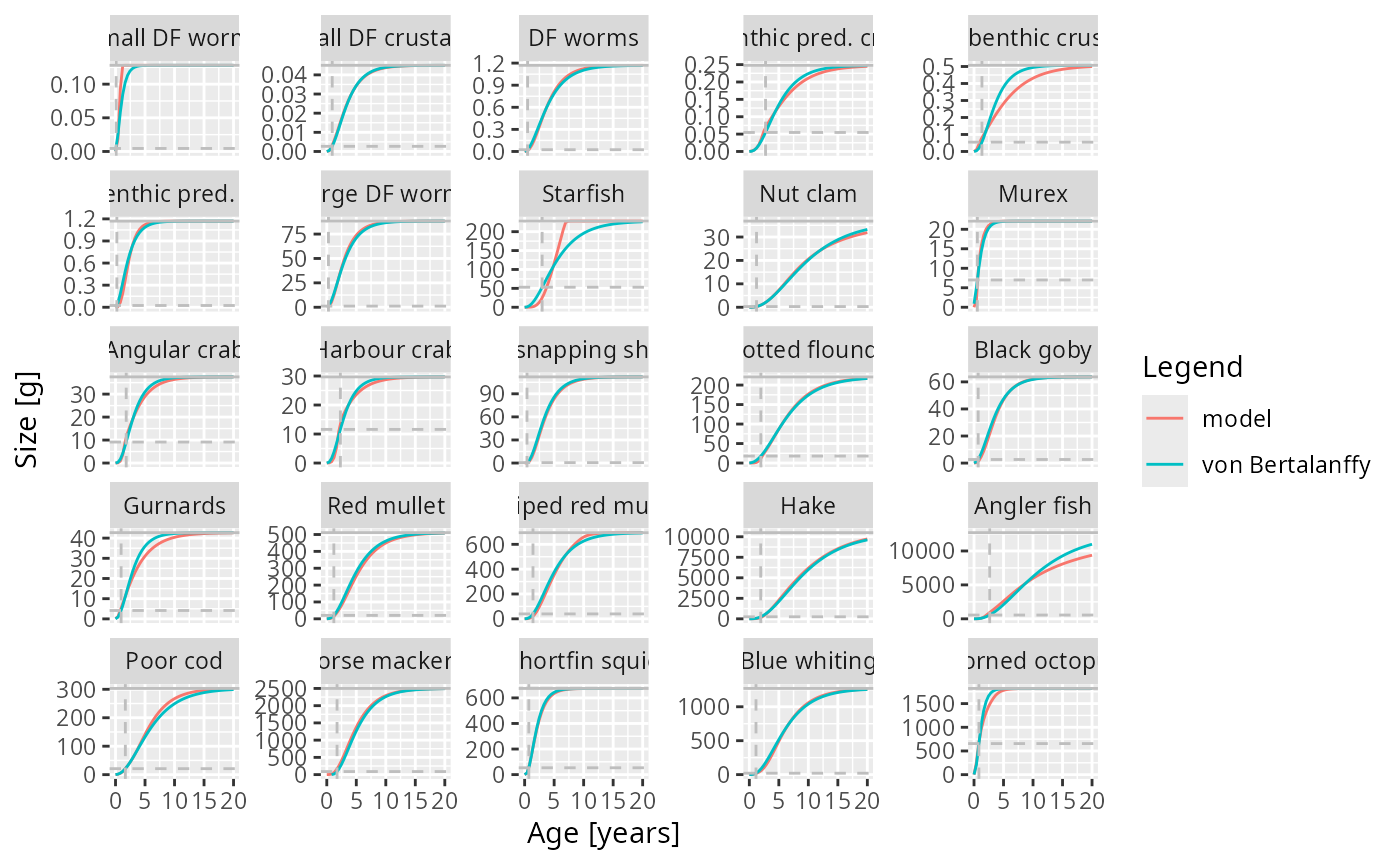
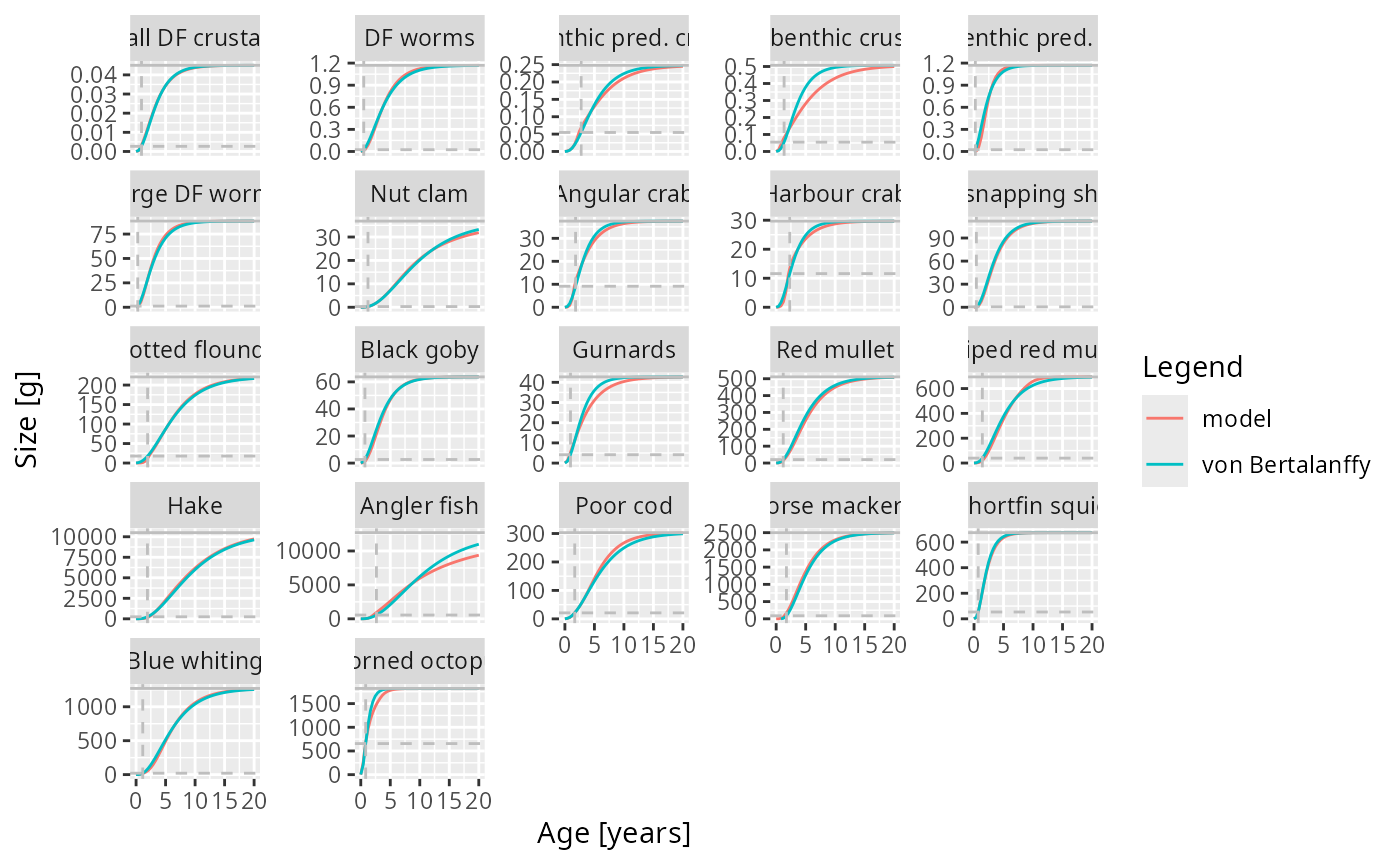
Update website

diff --git a/docs/articles/extension_mechanism.html b/docs/articles/extension_mechanism.html
@@ -20,7 +20,7 @@
 
     <a class="navbar-brand me-2" href="../index.html">mizerShelf</a>
 
-    <small class="nav-text text-muted me-auto" data-bs-toggle="tooltip" data-bs-placement="bottom" title="">1.0.1</small>
+    <small class="nav-text text-muted me-auto" data-bs-toggle="tooltip" data-bs-placement="bottom" title="">1.0.2</small>
 
 
     <button class="navbar-toggler" type="button" data-bs-toggle="collapse" data-bs-target="#navbar" aria-controls="navbar" aria-expanded="false" aria-label="Toggle navigation">
@@ -95,13 +95,13 @@ of the five extension mechanisms described in
 <tbody>
 <tr class="odd">
 <td>
-<code>.onLoad</code> + <code>registerExtension()</code>
+<code>.onLoad</code> + <code><a href="https://sizespectrum.org/mizer/reference/registerExtension.html" class="external-link">registerExtension()</a></code>
 </td>
 <td>Register the package with mizer so params objects know which
 extensions they need</td>
 </tr>
 <tr class="even">
-<td><code>setRateFunction()</code></td>
+<td><code><a href="https://sizespectrum.org/mizer/reference/setRateFunction.html" class="external-link">setRateFunction()</a></code></td>
 <td>Replace standard mortality with shelf mortality that includes excess
 gear mortality</td>
 </tr>
@@ -111,7 +111,7 @@ gear mortality</td>
 resource</td>
 </tr>
 <tr class="even">
-<td><code>setComponent()</code></td>
+<td><code><a href="https://sizespectrum.org/mizer/reference/setComponent.html" class="external-link">setComponent()</a></code></td>
 <td>Add carrion as a scalar dynamical component that contributes to the
 encounter rate</td>
 </tr>
@@ -149,13 +149,13 @@ register itself when it is loaded. This happens automatically via
 <code class="sourceCode R"><span><span class="va">.onLoad</span> <span class="op">&lt;-</span> <span class="kw">function</span><span class="op">(</span><span class="va">libname</span>, <span class="va">pkgname</span><span class="op">)</span> <span class="op">{</span></span>
 <span>    <span class="fu">mizer</span><span class="fu">::</span><span class="fu"><a href="https://sizespectrum.org/mizer/reference/registerExtension.html" class="external-link">registerExtension</a></span><span class="op">(</span><span class="va">pkgname</span>, requirement <span class="op">=</span> <span class="st">"sizespectrum/mizerShelf"</span><span class="op">)</span></span>
 <span><span class="op">}</span></span></code></pre></div>
-<p><code>registerExtension()</code> adds an entry to mizer’s internal
+<p><code><a href="https://sizespectrum.org/mizer/reference/registerExtension.html" class="external-link">registerExtension()</a></code> adds an entry to mizer’s internal
 registry of known extensions. The <code>requirement</code> argument
 records the GitHub repository (<code>"sizespectrum/mizerShelf"</code>)
 so that mizer can warn users if they load a <code>params</code> object
 that needs mizerShelf but the package is not installed.</p>
 <p>This registration is what makes the subsequent call to
-<code>getRegisteredExtensions()</code> inside
+<code><a href="https://sizespectrum.org/mizer/reference/getRegisteredExtensions.html" class="external-link">getRegisteredExtensions()</a></code> inside
 <code><a href="../reference/newDetritusCarrionParams.html">newDetritusCarrionParams()</a></code> return <code>"mizerShelf"</code>
 — it is not a scan of installed packages but a lookup of packages that
 have explicitly announced themselves to mizer.</p>
@@ -163,13 +163,13 @@ have explicitly announced themselves to mizer.</p>
 <code>params@extensions</code> and coerces the result to the
 <code>mizerShelf</code> marker class:</p>
 <div class="sourceCode" id="cb3"><pre class="downlit sourceCode r">
-<code class="sourceCode R"><span><span class="va">params</span><span class="op">@</span><span class="va">extensions</span> <span class="op">&lt;-</span> <span class="fu">getRegisteredExtensions</span><span class="op">(</span><span class="op">)</span></span>
-<span><span class="va">params</span> <span class="op">&lt;-</span> <span class="fu">coerceToExtensionClass</span><span class="op">(</span><span class="va">params</span><span class="op">)</span></span></code></pre></div>
+<code class="sourceCode R"><span><span class="va">params</span><span class="op">@</span><span class="va">extensions</span> <span class="op">&lt;-</span> <span class="fu"><a href="https://sizespectrum.org/mizer/reference/getRegisteredExtensions.html" class="external-link">getRegisteredExtensions</a></span><span class="op">(</span><span class="op">)</span></span>
+<span><span class="va">params</span> <span class="op">&lt;-</span> <span class="fu"><a href="https://sizespectrum.org/mizer/reference/coerceToExtensionClass.html" class="external-link">coerceToExtensionClass</a></span><span class="op">(</span><span class="va">params</span><span class="op">)</span></span></code></pre></div>
 <p>Recording the extension in <code>params@extensions</code> is what
 allows mizer to automatically produce a <code>mizerShelfSim</code>
-whenever <code>project()</code> is called: mizer’s own
-<code>MizerSim()</code> constructor calls
-<code>coerceToExtensionClass()</code>, which reads
+whenever <code><a href="https://sizespectrum.org/mizer/reference/project.html" class="external-link">project()</a></code> is called: mizer’s own
+<code><a href="https://sizespectrum.org/mizer/reference/MizerSim.html" class="external-link">MizerSim()</a></code> constructor calls
+<code><a href="https://sizespectrum.org/mizer/reference/coerceToExtensionClass.html" class="external-link">coerceToExtensionClass()</a></code>, which reads
 <code>params@extensions</code>, sees <code>mizerShelf</code>, and
 coerces the new sim object to <code>mizerShelfSim</code>.</p>
 </div>
@@ -238,7 +238,7 @@ biomasses:</p>
 <span>    <span class="kw">if</span> <span class="op">(</span><span class="fu"><a href="https://rdrr.io/r/base/length.html" class="external-link">length</a></span><span class="op">(</span><span class="va">scalar_other</span><span class="op">)</span> <span class="op">&gt;</span> <span class="fl">0</span><span class="op">)</span> <span class="va">b</span> <span class="op">&lt;-</span> <span class="fu"><a href="https://rdrr.io/r/base/c.html" class="external-link">c</a></span><span class="op">(</span><span class="va">b</span>, <span class="fu"><a href="https://rdrr.io/r/base/unlist.html" class="external-link">unlist</a></span><span class="op">(</span><span class="va">scalar_other</span><span class="op">)</span><span class="op">)</span></span>
 <span>    <span class="va">b</span></span>
 <span><span class="op">}</span></span></code></pre></div>
-<p>Because <code>plotBiomass()</code> calls <code><a href="../reference/getBiomass.html">getBiomass()</a></code>
+<p>Because <code><a href="https://sizespectrum.org/mizer/reference/plotBiomass.html" class="external-link">plotBiomass()</a></code> calls <code><a href="../reference/getBiomass.html">getBiomass()</a></code>
 internally, this single override makes biomass plots show detritus and
 carrion alongside fish species without any further changes.</p>
 <div class="sourceCode" id="cb5"><pre class="downlit sourceCode r">
@@ -246,8 +246,8 @@ carrion alongside fish species without any further changes.</p>
 <span><span class="co">#&gt;     Small DF worms Small DF crustacea           DF worms </span></span>
 <span><span class="co">#&gt;          0.6514945          0.1603410          0.7829609</span></span></code></pre></div>
 <div class="sourceCode" id="cb6"><pre class="downlit sourceCode r">
-<code class="sourceCode R"><span><span class="va">sim</span> <span class="op">&lt;-</span> <span class="fu">project</span><span class="op">(</span><span class="va">NWMed_params</span>, t_max <span class="op">=</span> <span class="fl">3</span>, t_save <span class="op">=</span> <span class="fl">0.5</span>, progress_bar <span class="op">=</span> <span class="cn">FALSE</span><span class="op">)</span></span>
-<span><span class="fu">plotBiomass</span><span class="op">(</span><span class="va">sim</span>, species <span class="op">=</span> <span class="fu"><a href="https://rdrr.io/r/base/c.html" class="external-link">c</a></span><span class="op">(</span><span class="st">"Nut clam"</span>, <span class="st">"Detritus"</span><span class="op">)</span><span class="op">)</span></span>
+<code class="sourceCode R"><span><span class="va">sim</span> <span class="op">&lt;-</span> <span class="fu"><a href="https://sizespectrum.org/mizer/reference/project.html" class="external-link">project</a></span><span class="op">(</span><span class="va">NWMed_params</span>, t_max <span class="op">=</span> <span class="fl">3</span>, t_save <span class="op">=</span> <span class="fl">0.5</span>, progress_bar <span class="op">=</span> <span class="cn">FALSE</span><span class="op">)</span></span>
+<span><span class="fu"><a href="https://sizespectrum.org/mizer/reference/plotBiomass.html" class="external-link">plotBiomass</a></span><span class="op">(</span><span class="va">sim</span>, species <span class="op">=</span> <span class="fu"><a href="https://rdrr.io/r/base/c.html" class="external-link">c</a></span><span class="op">(</span><span class="st">"Nut clam"</span>, <span class="st">"Detritus"</span><span class="op">)</span><span class="op">)</span></span>
 <span><span class="co">#&gt; Warning: Removed 7 rows containing missing values or values outside the scale range</span></span>
 <span><span class="co">#&gt; (`geom_line()`).</span></span></code></pre></div>
 <p><img src="extension_mechanism_files/figure-html/plotBiomass-example-1.png" class="r-plt" alt="" width="672"></p>
@@ -261,9 +261,9 @@ carrion alongside fish species without any further changes.</p>
 carrying capacity. mizerShelf replaces this with
 <code><a href="../reference/detritus_dynamics.html">detritus_dynamics()</a></code>, which is registered via the
 <code>resource_dynamics</code> argument to
-<code>newMultispeciesParams()</code>:</p>
+<code><a href="https://sizespectrum.org/mizer/reference/newMultispeciesParams.html" class="external-link">newMultispeciesParams()</a></code>:</p>
 <div class="sourceCode" id="cb7"><pre class="downlit sourceCode r">
-<code class="sourceCode R"><span><span class="va">params</span> <span class="op">&lt;-</span> <span class="fu">newMultispeciesParams</span><span class="op">(</span></span>
+<code class="sourceCode R"><span><span class="va">params</span> <span class="op">&lt;-</span> <span class="fu"><a href="https://sizespectrum.org/mizer/reference/newMultispeciesParams.html" class="external-link">newMultispeciesParams</a></span><span class="op">(</span></span>
 <span>    species_params <span class="op">=</span> <span class="va">species_params</span>,</span>
 <span>    resource_dynamics <span class="op">=</span> <span class="st">"detritus_dynamics"</span>,</span>
 <span>    <span class="va">...</span></span>
@@ -298,7 +298,7 @@ sedimentation from pelagic waters, stored in
 </ul>
 <p><code><a href="../reference/detritus_dynamics.html">detritus_dynamics()</a></code> solves this ODE analytically within
 each time step to avoid the instabilities of a simple Euler step:</p>
-<p><math display="block" xmlns="http://www.w3.org/1998/Math/MathML"><semantics><mrow><mi>B</mi><mrow><mo stretchy="true" form="prefix">(</mo><mi>t</mi><mo>+</mo><mi>Δ</mi><mi>t</mi><mo stretchy="true" form="postfix">)</mo></mrow><mo>=</mo><mi>B</mi><mrow><mo stretchy="true" form="prefix">(</mo><mi>t</mi><mo stretchy="true" form="postfix">)</mo></mrow><mspace width="0.167em"></mspace><msup><mi>e</mi><mrow><mi>−</mi><mi>c</mi><mspace width="0.167em"></mspace><mi>Δ</mi><mi>t</mi></mrow></msup><mo>+</mo><mfrac><mi>p</mi><mi>c</mi></mfrac><mrow><mo stretchy="true" form="prefix">(</mo><mn>1</mn><mo>−</mo><msup><mi>e</mi><mrow><mi>−</mi><mi>c</mi><mspace width="0.167em"></mspace><mi>Δ</mi><mi>t</mi></mrow></msup><mo stretchy="true" form="postfix">)</mo></mrow></mrow><annotation encoding="application/x-tex">B(t + \Delta t) = B(t)\,e^{-c\,\Delta t} + \frac{p}{c}\left(1 - e^{-c\,\Delta t}\right)</annotation></semantics></math></p>
+<p><math display="block" xmlns="http://www.w3.org/1998/Math/MathML"><semantics><mrow><mi>B</mi><mo stretchy="false" form="prefix">(</mo><mi>t</mi><mo>+</mo><mi mathvariant="normal">Δ</mi><mi>t</mi><mo stretchy="false" form="postfix">)</mo><mo>=</mo><mi>B</mi><mo stretchy="false" form="prefix">(</mo><mi>t</mi><mo stretchy="false" form="postfix">)</mo><mspace width="0.167em"></mspace><msup><mi>e</mi><mrow><mi>−</mi><mi>c</mi><mspace width="0.167em"></mspace><mi mathvariant="normal">Δ</mi><mi>t</mi></mrow></msup><mo>+</mo><mfrac><mi>p</mi><mi>c</mi></mfrac><mrow><mo stretchy="true" form="prefix">(</mo><mn>1</mn><mo>−</mo><msup><mi>e</mi><mrow><mi>−</mi><mi>c</mi><mspace width="0.167em"></mspace><mi mathvariant="normal">Δ</mi><mi>t</mi></mrow></msup><mo stretchy="true" form="postfix">)</mo></mrow></mrow><annotation encoding="application/x-tex">B(t + \Delta t) = B(t)\,e^{-c\,\Delta t} + \frac{p}{c}\left(1 - e^{-c\,\Delta t}\right)</annotation></semantics></math></p>
 <p>where
 <math display="inline" xmlns="http://www.w3.org/1998/Math/MathML"><semantics><mi>c</mi><annotation encoding="application/x-tex">c</annotation></semantics></math>
 is the mass-specific consumption rate and
@@ -345,7 +345,7 @@ grams.</li>
 <li>
 <code>detritus_lifetime(params)</code> — the expected time a unit of
 detritus survives before being consumed, equal to
-<math display="inline" xmlns="http://www.w3.org/1998/Math/MathML"><semantics><mrow><mi>B</mi><mi>/</mi><mrow><mo stretchy="true" form="prefix">(</mo><mtext mathvariant="normal">consumption rate</mtext><mo stretchy="true" form="postfix">)</mo></mrow></mrow><annotation encoding="application/x-tex">B / (\text{consumption rate})</annotation></semantics></math>.</li>
+<math display="inline" xmlns="http://www.w3.org/1998/Math/MathML"><semantics><mrow><mi>B</mi><mi>/</mi><mo stretchy="false" form="prefix">(</mo><mtext mathvariant="normal">consumption rate</mtext><mo stretchy="false" form="postfix">)</mo></mrow><annotation encoding="application/x-tex">B / (\text{consumption rate})</annotation></semantics></math>.</li>
 <li>
 <code>detritus_lifetime(params) &lt;- value</code> — rescales
 detritus abundance while keeping total consumption unchanged (by
@@ -363,9 +363,9 @@ adjusting <code>interaction_resource</code>).</li>
 it is a scalar total biomass (not size-structured), produced by
 mortality and consumed by scavengers with a species- and size-dependent
 encounter rate. It is registered as an <em>other</em> component via
-<code>setComponent()</code>:</p>
+<code><a href="https://sizespectrum.org/mizer/reference/setComponent.html" class="external-link">setComponent()</a></code>:</p>
 <div class="sourceCode" id="cb11"><pre class="downlit sourceCode r">
-<code class="sourceCode R"><span><span class="va">params</span> <span class="op">&lt;-</span> <span class="fu">setComponent</span><span class="op">(</span></span>
+<code class="sourceCode R"><span><span class="va">params</span> <span class="op">&lt;-</span> <span class="fu"><a href="https://sizespectrum.org/mizer/reference/setComponent.html" class="external-link">setComponent</a></span><span class="op">(</span></span>
 <span>    <span class="va">params</span>, <span class="st">"carrion"</span>,</span>
 <span>    initial_value  <span class="op">=</span> <span class="fl">1</span>,</span>
 <span>    dynamics_fun   <span class="op">=</span> <span class="st">"carrion_dynamics"</span>,</span>
@@ -393,9 +393,9 @@ carrion’s contribution to each species’ encounter rate.</li>
 at body size
 <math display="inline" xmlns="http://www.w3.org/1998/Math/MathML"><semantics><mi>w</mi><annotation encoding="application/x-tex">w</annotation></semantics></math>
 is</p>
-<p><math display="block" xmlns="http://www.w3.org/1998/Math/MathML"><semantics><mrow><msubsup><mi>E</mi><mi>i</mi><mtext mathvariant="normal">carrion</mtext></msubsup><mrow><mo stretchy="true" form="prefix">(</mo><mi>w</mi><mo stretchy="true" form="postfix">)</mo></mrow><mo>=</mo><msub><mi>ρ</mi><mi>i</mi></msub><mrow><mo stretchy="true" form="prefix">(</mo><mi>w</mi><mo stretchy="true" form="postfix">)</mo></mrow><mspace width="0.167em"></mspace><msub><mi>B</mi><mtext mathvariant="normal">carrion</mtext></msub></mrow><annotation encoding="application/x-tex">E_i^{\text{carrion}}(w) = \rho_i(w)\,B_{\text{carrion}}</annotation></semantics></math></p>
+<p><math display="block" xmlns="http://www.w3.org/1998/Math/MathML"><semantics><mrow><msubsup><mi>E</mi><mi>i</mi><mtext mathvariant="normal">carrion</mtext></msubsup><mo stretchy="false" form="prefix">(</mo><mi>w</mi><mo stretchy="false" form="postfix">)</mo><mo>=</mo><msub><mi>ρ</mi><mi>i</mi></msub><mo stretchy="false" form="prefix">(</mo><mi>w</mi><mo stretchy="false" form="postfix">)</mo><mspace width="0.167em"></mspace><msub><mi>B</mi><mtext mathvariant="normal">carrion</mtext></msub></mrow><annotation encoding="application/x-tex">E_i^{\text{carrion}}(w) = \rho_i(w)\,B_{\text{carrion}}</annotation></semantics></math></p>
 <p>where
-<math display="inline" xmlns="http://www.w3.org/1998/Math/MathML"><semantics><mrow><msub><mi>ρ</mi><mi>i</mi></msub><mrow><mo stretchy="true" form="prefix">(</mo><mi>w</mi><mo stretchy="true" form="postfix">)</mo></mrow></mrow><annotation encoding="application/x-tex">\rho_i(w)</annotation></semantics></math>
+<math display="inline" xmlns="http://www.w3.org/1998/Math/MathML"><semantics><mrow><msub><mi>ρ</mi><mi>i</mi></msub><mo stretchy="false" form="prefix">(</mo><mi>w</mi><mo stretchy="false" form="postfix">)</mo></mrow><annotation encoding="application/x-tex">\rho_i(w)</annotation></semantics></math>
 is a species- and size-dependent encounter rate coefficient stored in
 the component parameters. The function
 <code><a href="../reference/encounter_contribution.html">encounter_contribution()</a></code> is a generic helper that works for
@@ -491,14 +491,14 @@ carrion) to hit the target.</li>
 extracted from the water. Continental shelf fisheries also kill animals
 that remain on the seabed after contact with bottom-trawl gear.
 mizerShelf captures this distinction with a custom mortality function
-registered via <code>setRateFunction()</code>:</p>
+registered via <code><a href="https://sizespectrum.org/mizer/reference/setRateFunction.html" class="external-link">setRateFunction()</a></code>:</p>
 <div class="sourceCode" id="cb17"><pre class="downlit sourceCode r">
-<code class="sourceCode R"><span><span class="va">params</span> <span class="op">&lt;-</span> <span class="fu">setRateFunction</span><span class="op">(</span><span class="va">params</span>, <span class="st">"Mort"</span>, <span class="st">"seMort"</span><span class="op">)</span></span></code></pre></div>
-<p><code><a href="../reference/seMort.html">seMort()</a></code> calls the standard <code>mizerMort()</code> and
+<code class="sourceCode R"><span><span class="va">params</span> <span class="op">&lt;-</span> <span class="fu"><a href="https://sizespectrum.org/mizer/reference/setRateFunction.html" class="external-link">setRateFunction</a></span><span class="op">(</span><span class="va">params</span>, <span class="st">"Mort"</span>, <span class="st">"seMort"</span><span class="op">)</span></span></code></pre></div>
+<p><code><a href="../reference/seMort.html">seMort()</a></code> calls the standard <code><a href="https://sizespectrum.org/mizer/reference/mizerMort.html" class="external-link">mizerMort()</a></code> and
 adds the excess gear mortality on top:</p>
 <div class="sourceCode" id="cb18"><pre class="downlit sourceCode r">
 <code class="sourceCode R"><span><span class="va">seMort</span> <span class="op">&lt;-</span> <span class="kw">function</span><span class="op">(</span><span class="va">params</span>, <span class="va">n</span>, <span class="va">n_pp</span>, <span class="va">n_other</span>, <span class="va">t</span>, <span class="va">f_mort</span>, <span class="va">pred_mort</span>, <span class="va">...</span><span class="op">)</span> <span class="op">{</span></span>
-<span>    <span class="fu">mizerMort</span><span class="op">(</span><span class="va">params</span>, <span class="va">n</span>, <span class="va">n_pp</span>, <span class="va">n_other</span>, <span class="va">t</span>, <span class="va">f_mort</span>, <span class="va">pred_mort</span>, <span class="va">...</span><span class="op">)</span> <span class="op">+</span></span>
+<span>    <span class="fu"><a href="https://sizespectrum.org/mizer/reference/mizerMort.html" class="external-link">mizerMort</a></span><span class="op">(</span><span class="va">params</span>, <span class="va">n</span>, <span class="va">n_pp</span>, <span class="va">n_other</span>, <span class="va">t</span>, <span class="va">f_mort</span>, <span class="va">pred_mort</span>, <span class="va">...</span><span class="op">)</span> <span class="op">+</span></span>
 <span>        <span class="fu"><a href="../reference/gearMort.html">gearMort</a></span><span class="op">(</span><span class="va">params</span>, f_mort <span class="op">=</span> <span class="va">f_mort</span><span class="op">)</span></span>
 <span><span class="op">}</span></span></code></pre></div>
 <p><code><a href="../reference/gearMort.html">gearMort()</a></code> returns
@@ -509,7 +509,7 @@ enters total mortality and also enters the carrion production (via
 <code><a href="../reference/getCarrionProduction.html">getCarrionProduction()</a></code>). When fishing mortality exceeds
 <code>gear_mort</code>, excess gear mortality is zero.</p>
 <p>The custom rate function receives and returns exactly the same array
-shape as <code>mizerMort()</code> (species × size), so it is a drop-in
+shape as <code><a href="https://sizespectrum.org/mizer/reference/mizerMort.html" class="external-link">mizerMort()</a></code> (species × size), so it is a drop-in
 replacement that adds one ecological process without changing anything
 else.</p>
 </div>
@@ -525,7 +525,7 @@ constructor:</p>
 <span>                                     <span class="va">w_max_detritus</span> <span class="op">=</span> <span class="fl">1</span>,</span>
 <span>                                     <span class="va">n</span> <span class="op">=</span> <span class="fl">0.7</span>, <span class="va">...</span><span class="op">)</span> <span class="op">{</span></span>
 <span>    <span class="co"># 1. Detritus: override resource dynamics</span></span>
-<span>    <span class="va">params</span> <span class="op">&lt;-</span> <span class="fu">newMultispeciesParams</span><span class="op">(</span></span>
+<span>    <span class="va">params</span> <span class="op">&lt;-</span> <span class="fu"><a href="https://sizespectrum.org/mizer/reference/newMultispeciesParams.html" class="external-link">newMultispeciesParams</a></span><span class="op">(</span></span>
 <span>        species_params   <span class="op">=</span> <span class="va">species_params</span>,</span>
 <span>        min_w_pp         <span class="op">=</span> <span class="va">w_min_detritus</span>,</span>
 <span>        w_pp_cutoff      <span class="op">=</span> <span class="va">w_max_detritus</span>,</span>
@@ -534,34 +534,34 @@ constructor:</p>
 <span>        <span class="va">...</span><span class="op">)</span></span>
 <span></span>
 <span>    <span class="co"># Initialise rho so each species can reach feeding level f0 at max size</span></span>
-<span>    <span class="va">f0</span>  <span class="op">&lt;-</span> <span class="fu">set_species_param_default</span><span class="op">(</span><span class="va">params</span><span class="op">@</span><span class="va">species_params</span>, <span class="st">"f0"</span>, <span class="fl">0.6</span><span class="op">)</span><span class="op">$</span><span class="va">f0</span></span>
-<span>    <span class="va">ic</span>  <span class="op">&lt;-</span> <span class="fu">set_species_param_default</span><span class="op">(</span></span>
+<span>    <span class="va">f0</span>  <span class="op">&lt;-</span> <span class="fu"><a href="https://sizespectrum.org/mizer/reference/set_species_param_default.html" class="external-link">set_species_param_default</a></span><span class="op">(</span><span class="va">params</span><span class="op">@</span><span class="va">species_params</span>, <span class="st">"f0"</span>, <span class="fl">0.6</span><span class="op">)</span><span class="op">$</span><span class="va">f0</span></span>
+<span>    <span class="va">ic</span>  <span class="op">&lt;-</span> <span class="fu"><a href="https://sizespectrum.org/mizer/reference/set_species_param_default.html" class="external-link">set_species_param_default</a></span><span class="op">(</span></span>
 <span>               <span class="va">params</span><span class="op">@</span><span class="va">species_params</span>, <span class="st">"interaction_carrion"</span>, <span class="fl">1</span><span class="op">)</span><span class="op">$</span><span class="va">interaction_carrion</span></span>
-<span>    <span class="va">E</span>   <span class="op">&lt;-</span> <span class="fu">getEncounter</span><span class="op">(</span><span class="va">params</span><span class="op">)</span><span class="op">[</span>, <span class="fu"><a href="https://rdrr.io/r/base/length.html" class="external-link">length</a></span><span class="op">(</span><span class="va">params</span><span class="op">@</span><span class="va">w</span><span class="op">)</span><span class="op">]</span> <span class="op">/</span></span>
+<span>    <span class="va">E</span>   <span class="op">&lt;-</span> <span class="fu"><a href="https://sizespectrum.org/mizer/reference/getEncounter.html" class="external-link">getEncounter</a></span><span class="op">(</span><span class="va">params</span><span class="op">)</span><span class="op">[</span>, <span class="fu"><a href="https://rdrr.io/r/base/length.html" class="external-link">length</a></span><span class="op">(</span><span class="va">params</span><span class="op">@</span><span class="va">w</span><span class="op">)</span><span class="op">]</span> <span class="op">/</span></span>
 <span>               <span class="op">(</span><span class="va">params</span><span class="op">@</span><span class="va">w</span><span class="op">[</span><span class="fu"><a href="https://rdrr.io/r/base/length.html" class="external-link">length</a></span><span class="op">(</span><span class="va">params</span><span class="op">@</span><span class="va">w</span><span class="op">)</span><span class="op">]</span> <span class="op">^</span> <span class="va">n</span><span class="op">)</span></span>
 <span>    <span class="va">rho</span> <span class="op">&lt;-</span> <span class="fu"><a href="https://rdrr.io/r/base/Extremes.html" class="external-link">pmax</a></span><span class="op">(</span><span class="fl">0</span>, <span class="va">f0</span> <span class="op">*</span> <span class="va">params</span><span class="op">@</span><span class="va">species_params</span><span class="op">$</span><span class="va">h</span> <span class="op">/</span> <span class="op">(</span><span class="fl">1</span> <span class="op">-</span> <span class="va">f0</span><span class="op">)</span> <span class="op">-</span> <span class="va">E</span><span class="op">)</span> <span class="op">*</span> <span class="va">ic</span></span>
 <span>    <span class="va">params</span><span class="op">@</span><span class="va">species_params</span><span class="op">$</span><span class="va">rho_carrion</span> <span class="op">&lt;-</span> <span class="va">rho</span></span>
 <span>    <span class="va">rho</span> <span class="op">&lt;-</span> <span class="fu"><a href="https://rdrr.io/r/base/outer.html" class="external-link">outer</a></span><span class="op">(</span><span class="va">params</span><span class="op">@</span><span class="va">species_params</span><span class="op">$</span><span class="va">rho_carrion</span>, <span class="va">params</span><span class="op">@</span><span class="va">w</span> <span class="op">^</span> <span class="va">n</span><span class="op">)</span></span>
 <span></span>
 <span>    <span class="co"># 2. Mortality: custom rate function adds excess gear mortality</span></span>
-<span>    <span class="va">params</span> <span class="op">&lt;-</span> <span class="fu">setRateFunction</span><span class="op">(</span><span class="va">params</span>, <span class="st">"Mort"</span>, <span class="st">"seMort"</span><span class="op">)</span></span>
+<span>    <span class="va">params</span> <span class="op">&lt;-</span> <span class="fu"><a href="https://sizespectrum.org/mizer/reference/setRateFunction.html" class="external-link">setRateFunction</a></span><span class="op">(</span><span class="va">params</span>, <span class="st">"Mort"</span>, <span class="st">"seMort"</span><span class="op">)</span></span>
 <span></span>
 <span>    <span class="co"># 3. Carrion: scalar dynamical component</span></span>
-<span>    <span class="va">params</span> <span class="op">&lt;-</span> <span class="fu">setComponent</span><span class="op">(</span></span>
+<span>    <span class="va">params</span> <span class="op">&lt;-</span> <span class="fu"><a href="https://sizespectrum.org/mizer/reference/setComponent.html" class="external-link">setComponent</a></span><span class="op">(</span></span>
 <span>        <span class="va">params</span>, <span class="st">"carrion"</span>, initial_value <span class="op">=</span> <span class="fl">1</span>,</span>
 <span>        dynamics_fun     <span class="op">=</span> <span class="st">"carrion_dynamics"</span>,</span>
 <span>        encounter_fun    <span class="op">=</span> <span class="st">"encounter_contribution"</span>,</span>
 <span>        component_params <span class="op">=</span> <span class="fu"><a href="https://rdrr.io/r/base/list.html" class="external-link">list</a></span><span class="op">(</span>rho <span class="op">=</span> <span class="va">rho</span><span class="op">)</span><span class="op">)</span></span>
 <span></span>
 <span>    <span class="co"># 4. Marker class: enables S3 dispatch for shelf-specific methods</span></span>
-<span>    <span class="va">params</span> <span class="op">&lt;-</span> <span class="fu">setColours</span><span class="op">(</span><span class="va">params</span>,</span>
+<span>    <span class="va">params</span> <span class="op">&lt;-</span> <span class="fu"><a href="https://sizespectrum.org/mizer/reference/setColours.html" class="external-link">setColours</a></span><span class="op">(</span><span class="va">params</span>,</span>
 <span>                         <span class="fu"><a href="https://rdrr.io/r/base/c.html" class="external-link">c</a></span><span class="op">(</span>Detritus <span class="op">=</span> <span class="st">"forestgreen"</span>, carrion <span class="op">=</span> <span class="st">"peru"</span><span class="op">)</span><span class="op">)</span></span>
 <span></span>
-<span>    <span class="va">params</span><span class="op">@</span><span class="va">extensions</span> <span class="op">&lt;-</span> <span class="fu">getRegisteredExtensions</span><span class="op">(</span><span class="op">)</span></span>
-<span>    <span class="va">params</span> <span class="op">&lt;-</span> <span class="fu">coerceToExtensionClass</span><span class="op">(</span><span class="va">params</span><span class="op">)</span></span>
+<span>    <span class="va">params</span><span class="op">@</span><span class="va">extensions</span> <span class="op">&lt;-</span> <span class="fu"><a href="https://sizespectrum.org/mizer/reference/getRegisteredExtensions.html" class="external-link">getRegisteredExtensions</a></span><span class="op">(</span><span class="op">)</span></span>
+<span>    <span class="va">params</span> <span class="op">&lt;-</span> <span class="fu"><a href="https://sizespectrum.org/mizer/reference/coerceToExtensionClass.html" class="external-link">coerceToExtensionClass</a></span><span class="op">(</span><span class="va">params</span><span class="op">)</span></span>
 <span><span class="op">}</span></span></code></pre></div>
 <p>The order matters. The resource dynamics are set inside
-<code>newMultispeciesParams()</code> before mizer computes initial
+<code><a href="https://sizespectrum.org/mizer/reference/newMultispeciesParams.html" class="external-link">newMultispeciesParams()</a></code> before mizer computes initial
 rates, so the detritus shape is consistent from the start. The carrion
 component is registered after the species parameters are set, so that
 <code>rho</code> can be computed from the initial encounter rates. The
@@ -577,14 +577,14 @@ mechanisms working together:</p>
 <li><p><strong>Resource dynamics override</strong> — detritus reuses
 mizer’s resource spectrum infrastructure with a custom ODE that tracks
 total biomass and rescales the spectrum shape.</p></li>
-<li><p><strong><code>setRateFunction()</code></strong> — the custom
+<li><p><strong><code><a href="https://sizespectrum.org/mizer/reference/setRateFunction.html" class="external-link">setRateFunction()</a></code></strong> — the custom
 <code><a href="../reference/seMort.html">seMort()</a></code> adds excess gear mortality to the standard
 mortality calculation with a single-line wrapper around
-<code>mizerMort()</code>.</p></li>
-<li><p><strong><code>setComponent()</code></strong> — carrion is a
+<code><a href="https://sizespectrum.org/mizer/reference/mizerMort.html" class="external-link">mizerMort()</a></code>.</p></li>
+<li><p><strong><code><a href="https://sizespectrum.org/mizer/reference/setComponent.html" class="external-link">setComponent()</a></code></strong> — carrion is a
 scalar dynamical variable whose biomass evolves each time step and whose
 encounter-rate contribution is automatically included in
-<code>getEncounter()</code> and <code>getDiet()</code>.</p></li>
+<code><a href="https://sizespectrum.org/mizer/reference/getEncounter.html" class="external-link">getEncounter()</a></code> and <code><a href="https://sizespectrum.org/mizer/reference/getDiet.html" class="external-link">getDiet()</a></code>.</p></li>
 <li><p><strong>S4 marker classes + S3 dispatch</strong> —
 <code>mizerShelf</code> and <code>mizerShelfSim</code> ensure that
 shelf-specific methods (<code>getBiomass</code>, <code>steady</code>,

diff --git a/docs/authors.html b/docs/authors.html
@@ -7,7 +7,7 @@
 
     <a class="navbar-brand me-2" href="index.html">mizerShelf</a>
 
-    <small class="nav-text text-muted me-auto" data-bs-toggle="tooltip" data-bs-placement="bottom" title="">1.0.1</small>
+    <small class="nav-text text-muted me-auto" data-bs-toggle="tooltip" data-bs-placement="bottom" title="">1.0.2</small>
 
 
     <button class="navbar-toggler" type="button" data-bs-toggle="collapse" data-bs-target="#navbar" aria-controls="navbar" aria-expanded="false" aria-label="Toggle navigation">
@@ -58,13 +58,13 @@
 
       <p>Delius G, de Juan S, Maynou F (2022).
 <em>mizerShelf: Mizer Models with Carrion and Detritus Components suitable for continental shelf ecosystems</em>.
-R package version 1.0.1, <a href="https://sizespectrum.org/mizerShelf/">https://sizespectrum.org/mizerShelf/</a>.
+R package version 1.0.2, <a href="https://sizespectrum.org/mizerShelf/">https://sizespectrum.org/mizerShelf/</a>.
 </p>
       <pre>@Manual{,
   title = {mizerShelf: Mizer Models with Carrion and Detritus Components suitable for continental shelf ecosystems},
   author = {Gustav Delius and Silvia {de Juan} and Francesc Maynou},
   year = {2022},
-  note = {R package version 1.0.1},
+  note = {R package version 1.0.2},
   url = {https://sizespectrum.org/mizerShelf/},
 }</pre>
     </div>

diff --git a/docs/reference/getBiomass.html b/docs/reference/getBiomass.html
@@ -11,7 +11,7 @@ biomasses (e.g. carrion)."></head><body>
 
     <a class="navbar-brand me-2" href="../index.html">mizerShelf</a>
 
-    <small class="nav-text text-muted me-auto" data-bs-toggle="tooltip" data-bs-placement="bottom" title="">1.0.1</small>
+    <small class="nav-text text-muted me-auto" data-bs-toggle="tooltip" data-bs-placement="bottom" title="">1.0.2</small>
 
 
     <button class="navbar-toggler" type="button" data-bs-toggle="collapse" data-bs-target="#navbar" aria-controls="navbar" aria-expanded="false" aria-label="Toggle navigation">
@@ -68,7 +68,7 @@ biomasses (e.g. carrion).</p>
     <div class="section level2">
     <h2 id="value">Value<a class="anchor" aria-label="anchor" href="#value"></a></h2>
     <p>For <code>mizerShelf</code>: a named numeric vector of species/component
-biomasses. For <code>mizerShelfSim</code>: an <code>ArraySpeciesByTime</code> matrix
+biomasses. For <code>mizerShelfSim</code>: an <code>ArrayTimeBySpecies</code> matrix
 (time x species/component) with species biomasses followed by Detritus
 and other component biomasses.</p>
     </div>

diff --git a/docs/404.html b/docs/404.html
@@ -20,7 +20,7 @@
 
     <a class="navbar-brand me-2" href="https://sizespectrum.org/mizerShelf/index.html">mizerShelf</a>
 
-    <small class="nav-text text-muted me-auto" data-bs-toggle="tooltip" data-bs-placement="bottom" title="">1.0.1</small>
+    <small class="nav-text text-muted me-auto" data-bs-toggle="tooltip" data-bs-placement="bottom" title="">1.0.2</small>
 
 
     <button class="navbar-toggler" type="button" data-bs-toggle="collapse" data-bs-target="#navbar" aria-controls="navbar" aria-expanded="false" aria-label="Toggle navigation">

diff --git a/docs/articles/index.html b/docs/articles/index.html
@@ -7,7 +7,7 @@
 
     <a class="navbar-brand me-2" href="../index.html">mizerShelf</a>
 
-    <small class="nav-text text-muted me-auto" data-bs-toggle="tooltip" data-bs-placement="bottom" title="">1.0.1</small>
+    <small class="nav-text text-muted me-auto" data-bs-toggle="tooltip" data-bs-placement="bottom" title="">1.0.2</small>
 
 
     <button class="navbar-toggler" type="button" data-bs-toggle="collapse" data-bs-target="#navbar" aria-controls="navbar" aria-expanded="false" aria-label="Toggle navigation">

diff --git a/docs/index.html b/docs/index.html
@@ -22,7 +22,7 @@
 
     <a class="navbar-brand me-2" href="index.html">mizerShelf</a>
 
-    <small class="nav-text text-muted me-auto" data-bs-toggle="tooltip" data-bs-placement="bottom" title="">1.0.1</small>
+    <small class="nav-text text-muted me-auto" data-bs-toggle="tooltip" data-bs-placement="bottom" title="">1.0.2</small>
 
 
     <button class="navbar-toggler" type="button" data-bs-toggle="collapse" data-bs-target="#navbar" aria-controls="navbar" aria-expanded="false" aria-label="Toggle navigation">

diff --git a/docs/reference/NWMed_catch.html b/docs/reference/NWMed_catch.html
@@ -11,7 +11,7 @@ Striped red mullet, Horse mackerel, Red mullet and Starfish."></head><body>
 
     <a class="navbar-brand me-2" href="../index.html">mizerShelf</a>
 
-    <small class="nav-text text-muted me-auto" data-bs-toggle="tooltip" data-bs-placement="bottom" title="">1.0.1</small>
+    <small class="nav-text text-muted me-auto" data-bs-toggle="tooltip" data-bs-placement="bottom" title="">1.0.2</small>
 
 
     <button class="navbar-toggler" type="button" data-bs-toggle="collapse" data-bs-target="#navbar" aria-controls="navbar" aria-expanded="false" aria-label="Toggle navigation">

diff --git a/docs/reference/NWMed_params.html b/docs/reference/NWMed_params.html
@@ -7,7 +7,7 @@
 
     <a class="navbar-brand me-2" href="../index.html">mizerShelf</a>
 
-    <small class="nav-text text-muted me-auto" data-bs-toggle="tooltip" data-bs-placement="bottom" title="">1.0.1</small>
+    <small class="nav-text text-muted me-auto" data-bs-toggle="tooltip" data-bs-placement="bottom" title="">1.0.2</small>
 
 
     <button class="navbar-toggler" type="button" data-bs-toggle="collapse" data-bs-target="#navbar" aria-controls="navbar" aria-expanded="false" aria-label="Toggle navigation">

diff --git a/docs/reference/addSpecies.html b/docs/reference/addSpecies.html
@@ -23,7 +23,7 @@ that low level."></head><body>
 
     <a class="navbar-brand me-2" href="../index.html">mizerShelf</a>
 
-    <small class="nav-text text-muted me-auto" data-bs-toggle="tooltip" data-bs-placement="bottom" title="">1.0.1</small>
+    <small class="nav-text text-muted me-auto" data-bs-toggle="tooltip" data-bs-placement="bottom" title="">1.0.2</small>
 
 
     <button class="navbar-toggler" type="button" data-bs-toggle="collapse" data-bs-target="#navbar" aria-controls="navbar" aria-expanded="false" aria-label="Toggle navigation">

diff --git a/docs/reference/carrion_biomass.html b/docs/reference/carrion_biomass.html
@@ -7,7 +7,7 @@
 
     <a class="navbar-brand me-2" href="../index.html">mizerShelf</a>
 
-    <small class="nav-text text-muted me-auto" data-bs-toggle="tooltip" data-bs-placement="bottom" title="">1.0.1</small>
+    <small class="nav-text text-muted me-auto" data-bs-toggle="tooltip" data-bs-placement="bottom" title="">1.0.2</small>
 
 
     <button class="navbar-toggler" type="button" data-bs-toggle="collapse" data-bs-target="#navbar" aria-controls="navbar" aria-expanded="false" aria-label="Toggle navigation">

diff --git a/docs/reference/carrion_consumption_ms.html b/docs/reference/carrion_consumption_ms.html
@@ -9,7 +9,7 @@ organisms."></head><body>
 
     <a class="navbar-brand me-2" href="../index.html">mizerShelf</a>
 
-    <small class="nav-text text-muted me-auto" data-bs-toggle="tooltip" data-bs-placement="bottom" title="">1.0.1</small>
+    <small class="nav-text text-muted me-auto" data-bs-toggle="tooltip" data-bs-placement="bottom" title="">1.0.2</small>
 
 
     <button class="navbar-toggler" type="button" data-bs-toggle="collapse" data-bs-target="#navbar" aria-controls="navbar" aria-expanded="false" aria-label="Toggle navigation">

diff --git a/docs/reference/carrion_dynamics.html b/docs/reference/carrion_dynamics.html
@@ -9,7 +9,7 @@ carrion biomass."></head><body>
 
     <a class="navbar-brand me-2" href="../index.html">mizerShelf</a>
 
-    <small class="nav-text text-muted me-auto" data-bs-toggle="tooltip" data-bs-placement="bottom" title="">1.0.1</small>
+    <small class="nav-text text-muted me-auto" data-bs-toggle="tooltip" data-bs-placement="bottom" title="">1.0.2</small>
 
 
     <button class="navbar-toggler" type="button" data-bs-toggle="collapse" data-bs-target="#navbar" aria-controls="navbar" aria-expanded="false" aria-label="Toggle navigation">